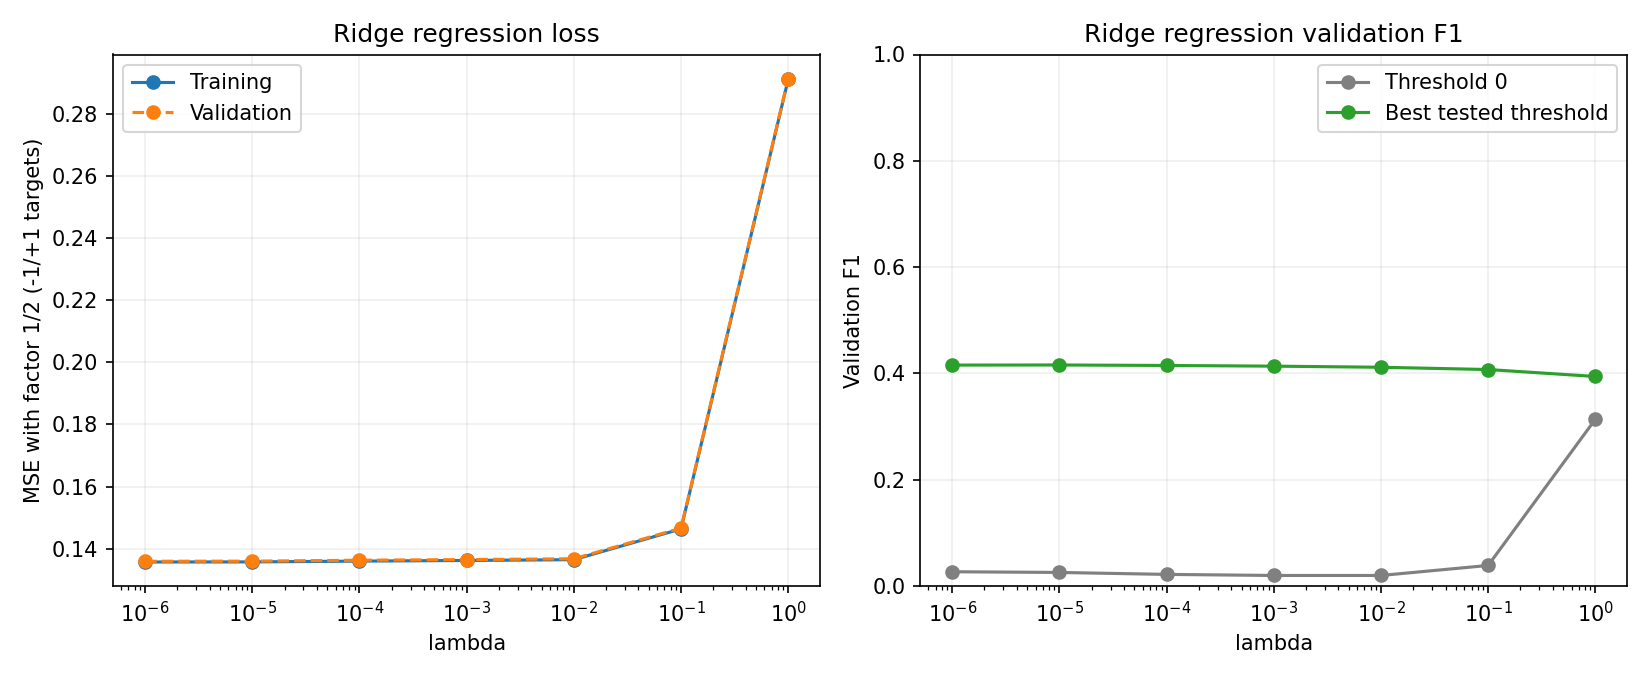
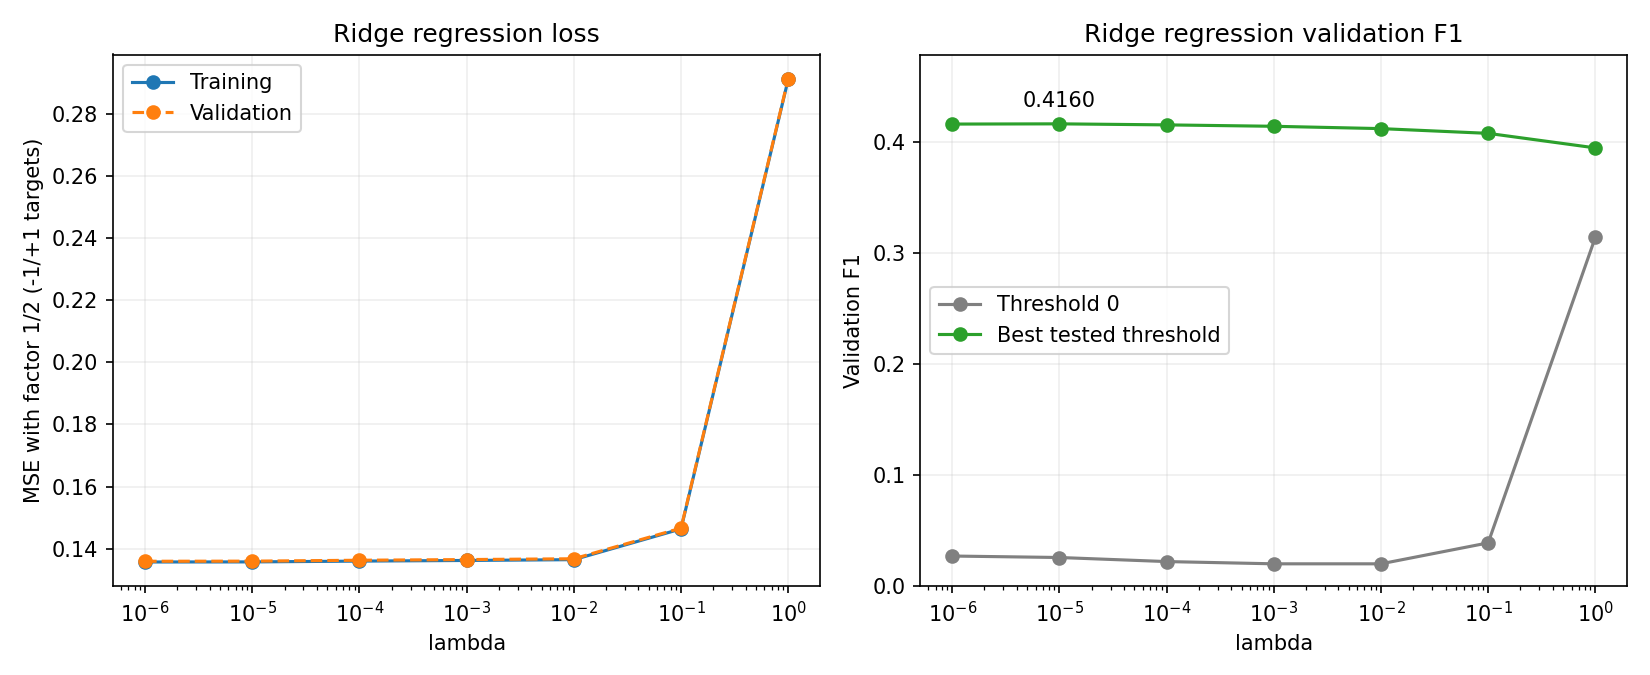
Add one-hot encoding and ridge feature-set comparison

diff --git a/train.py b/train.py
@@ -340,8 +340,14 @@ def save_ridge_results(rows):
         lambdas, [row["f1"] for row in rows],
         marker="o", label="Best tested threshold", color="tab:green",
     )
+    # Label only the selected lambda, so the small differences stay readable.
+    best = max(rows, key=lambda row: row["f1"])
+    f1_ax.annotate(
+        f"{best['f1']:.4f}", (best["lambda"], best["f1"]),
+        textcoords="offset points", xytext=(0, 8), ha="center",
+    )
     f1_ax.set_xscale("log")
-    f1_ax.set_ylim(0, 1)
+    f1_ax.set_ylim(0, max(row["f1"] for row in rows) * 1.15)
     f1_ax.set_xlabel("lambda")
     f1_ax.set_ylabel("Validation F1")
     f1_ax.set_title("Ridge regression validation F1")
@@ -357,7 +363,8 @@ def save_ridge_results(rows):
     print("Saved lambda plot:", plot_path, flush=True)
 
 
-def train_ridge(tx_fit, y_fit, tx_val, y_val, lambdas):
+def tune_ridge(tx_fit, y_fit, tx_val, y_val, lambdas):
+    """Fit ridge for each lambda and tune its score threshold on validation."""
     if len(lambdas) == 0 or min(lambdas) <= 0:
         raise ValueError("Expected at least one positive lambda.")
 
@@ -399,6 +406,13 @@ def train_ridge(tx_fit, y_fit, tx_val, y_val, lambdas):
 
     # Choose the lambda with the highest tuned validation F1.
     best_index = int(np.argmax([row["f1"] for row in rows]))
+    return rows, weights, all_threshold_results, best_index
+
+
+def train_ridge(tx_fit, y_fit, tx_val, y_val, lambdas):
+    rows, weights, all_threshold_results, best_index = tune_ridge(
+        tx_fit, y_fit, tx_val, y_val, lambdas
+    )
     best_lambda = rows[best_index]["lambda"]
     print(
         f"\nSelected lambda: {best_lambda:g} "
@@ -416,14 +430,100 @@ def train_ridge(tx_fit, y_fit, tx_val, y_val, lambdas):
     return weights[best_index], rows[best_index]["training_loss"]
 
 
+def save_feature_comparison(rows):
+    root = Path(__file__).resolve().parent
+    results_dir = root / "results"
+    figures_dir = root / "figures"
+    results_dir.mkdir(exist_ok=True)
+    figures_dir.mkdir(exist_ok=True)
+
+    # One row per feature set, with its best lambda and threshold.
+    csv_path = results_dir / "feature_comparison.csv"
+    with csv_path.open("w", newline="") as file:
+        writer = csv.DictWriter(file, fieldnames=[
+            "feature_set", "columns", "lambda", "training_loss",
+            "validation_loss", "default_f1", "threshold", "tp", "tn", "fp",
+            "fn", "accuracy", "precision", "recall", "f1",
+        ])
+        writer.writeheader()
+        writer.writerows(rows)
+
+    labels = [f"{row['feature_set']}\n({row['columns']} columns)" for row in rows]
+    f1_values = [row["f1"] for row in rows]
+
+    # Bars start at zero; the exact values are written on top of each bar.
+    fig, ax = plt.subplots(figsize=(9, 5))
+    bars = ax.bar(labels, f1_values, color="tab:blue", width=0.6)
+    ax.bar_label(bars, labels=[f"{value:.4f}" for value in f1_values], padding=3)
+    ax.set_ylim(0, max(f1_values) * 1.15)
+    ax.set_ylabel("Validation F1 (best lambda and threshold)")
+    ax.set_title("Ridge regression: effect of feature preprocessing")
+    ax.grid(axis="y", alpha=0.2)
+    ax.set_axisbelow(True)
+    fig.tight_layout()
+    plot_path = figures_dir / "feature_comparison.png"
+    fig.savefig(plot_path, dpi=150)
+    plt.close(fig)
+
+    print("\nFeature comparison (ridge, best lambda and threshold each):")
+    print("Feature set           Columns  Lambda   Threshold  Precision  Recall     F1")
+    for row in rows:
+        print(
+            f"{row['feature_set']:<21} {row['columns']:<8} {row['lambda']:<8g} "
+            f"{row['threshold']:<10.2f} {row['precision']:<10.4f} "
+            f"{row['recall']:<10.4f} {row['f1']:.4f}",
+            flush=True,
+        )
+    print("Saved feature comparison:", csv_path, flush=True)
+    print("Saved feature comparison plot:", plot_path, flush=True)
+
+
+def compare_feature_sets(x, y, feature_names, lambdas):
+    # Same split, model and lambdas; only the preprocessing changes.
+    feature_sets = [
+        # (name, use_feature_rules, use_one_hot)
+        ("original", False, False),
+        ("reviewed", True, False),
+        ("original + one-hot", False, True),
+        ("reviewed + one-hot", True, True),
+    ]
+
+    rows = []
+    for name, use_feature_rules, use_one_hot in feature_sets:
+        print(f"\nPreparing feature set: {name}", flush=True)
+        tx_fit, y_fit, tx_val, y_val = prepare_data(
+            x, y, feature_names=feature_names,
+            use_feature_rules=use_feature_rules, use_one_hot=use_one_hot,
+        )
+        print("training shape (including bias):", tx_fit.shape)
+
+        ridge_rows, _, _, best_index = tune_ridge(
+            tx_fit, y_fit, tx_val, y_val, lambdas
+        )
+        rows.append({
+            "feature_set": name, "columns": tx_fit.shape[1],
+            **ridge_rows[best_index],
+        })
+
+        # Free the large arrays before preparing the next feature set.
+        del tx_fit, tx_val
+
+    save_feature_comparison(rows)
+    return rows
+
+
 def main():
     # Use False here when we are ready for the full labelled dataset.
     sub_sample = False
     # Set False to use the original preprocessing.
     use_feature_rules = True
-    # Choose which model experiments to run.
+    # Set True to one-hot encode columns with at most 10 distinct values.
+    use_one_hot = False
+    # Choose which experiments to run.
+    run_feature_comparison = True
     run_logistic = False
     run_ridge = True
+    ridge_lambdas = [1e-6, 1e-5, 1e-4, 1e-3, 1e-2, 1e-1, 1.0]
 
     # Load the data once.
     print("Loading CSV files...", flush=True)
@@ -434,15 +534,22 @@ def main():
     feature_names = load_feature_names(data_path / "x_train.csv")
     print("sub_sample:", sub_sample)
     print("use_feature_rules:", use_feature_rules)
+    print("use_one_hot:", use_one_hot)
+    print("run_feature_comparison:", run_feature_comparison)
     print("run_logistic:", run_logistic)
     print("run_ridge:", run_ridge)
     print("labelled rows:", len(y_train))
+
+    # Compare feature sets first, before the main arrays use memory.
+    if run_feature_comparison:
+        compare_feature_sets(x_train, y_train, feature_names, ridge_lambdas)
 
     # Prepare the same training and validation data for all models.
     print("\nPreparing training and validation data...", flush=True)
     tx_fit, y_fit, tx_val, y_val = prepare_data(
         x_train, y_train,
         feature_names=feature_names, use_feature_rules=use_feature_rules,
+        use_one_hot=use_one_hot,
     )
     print("training shape (including bias):", tx_fit.shape)
     print("validation shape (including bias):", tx_val.shape)
@@ -455,10 +562,7 @@ def main():
             max_iters=5000, gamma=0.01, threshold=0.5,
         )
     if run_ridge:
-        train_ridge(
-            tx_fit, y_fit, tx_val, y_val,
-            lambdas=[1e-6, 1e-5, 1e-4, 1e-3, 1e-2, 1e-1, 1.0],
-        )
+        train_ridge(tx_fit, y_fit, tx_val, y_val, lambdas=ridge_lambdas)
     print("\nFinished.", flush=True)
 
 

diff --git a/preprocessing.py b/preprocessing.py
@@ -71,6 +71,47 @@ def clean_known_features(x, feature_names):
     return np.column_stack((x_clean, health_missing, days_missing))
 
 
+def fit_one_hot(x, max_categories=10):
+    """Find columns with few distinct training values and store those values."""
+    categories = {}
+    for column in range(x.shape[1]):
+        missing = np.isnan(x[:, column])
+        values = np.unique(x[~missing, column])
+
+        # Small value sets are treated as categories, e.g. codes 1-5, 7 and 9.
+        if 0 < len(values) <= max_categories:
+            categories[column] = (values, bool(np.any(missing)))
+
+    return categories
+
+
+def apply_one_hot(x, categories):
+    """Keep the other columns, then add one 0/1 column per training category."""
+    numeric_columns = [
+        column for column in range(x.shape[1]) if column not in categories
+    ]
+    n_indicators = sum(
+        len(values) + has_missing for values, has_missing in categories.values()
+    )
+
+    # Fill one new array so the large matrix is not copied again.
+    x_encoded = np.empty((len(x), len(numeric_columns) + n_indicators))
+    x_encoded[:, :len(numeric_columns)] = x[:, numeric_columns]
+
+    position = len(numeric_columns)
+    for column, (values, has_missing) in categories.items():
+        for value in values:
+            x_encoded[:, position] = x[:, column] == value
+            position += 1
+        # Missing values get their own column when training had them.
+        # Values never seen in training give zeros in all of this column's indicators.
+        if has_missing:
+            x_encoded[:, position] = np.isnan(x[:, column])
+            position += 1
+
+    return x_encoded
+
+
 def fit_imputer(x):
     # Keep columns with at least one value.
     keep_columns = ~np.all(np.isnan(x), axis=0)
@@ -85,9 +126,15 @@ def fit_imputer(x):
 
 
 def apply_imputer(x, keep_columns, medians):
-    # Drop empty columns and fill missing values.
-    x_clean = x[:, keep_columns].copy()
-    return np.where(np.isnan(x_clean), medians, x_clean)
+    # Drop empty columns; boolean indexing returns a copy, so x is unchanged.
+    x_clean = x[:, keep_columns]
+
+    # Fill each column's missing values with its training median.
+    for column in range(x_clean.shape[1]):
+        values = x_clean[:, column]
+        values[np.isnan(values)] = medians[column]
+
+    return x_clean
 
 
 def fit_scaler(x):
@@ -102,7 +149,10 @@ def fit_scaler(x):
 
 
 def apply_scaler(x, means, stds):
-    return (x - means) / stds
+    # Create one new array and divide it in place to save memory.
+    x_scaled = x - means
+    x_scaled /= stds
+    return x_scaled
 
 
 def add_bias(x):
@@ -113,6 +163,7 @@ def add_bias(x):
 def prepare_data(
     x, y, validation_fraction=0.20, seed=42,
     feature_names=None, use_feature_rules=False,
+    use_one_hot=False, max_categories=10,
 ):
     """Return prepared training and validation arrays."""
     if not 0 < validation_fraction < 1:
@@ -145,23 +196,36 @@ def prepare_data(
         x_fit = clean_known_features(x_fit, feature_names)
         x_val = clean_known_features(x_val, feature_names)
 
+    # Each step below reuses the names x_fit and x_val, so the previous
+    # large arrays can be freed before the next step.
+    if use_one_hot:
+        # Learn the categories from training data, then encode both sets.
+        categories = fit_one_hot(x_fit, max_categories)
+        print(
+            f"  One-hot encoding {len(categories)} columns "
+            f"with at most {max_categories} values...",
+            flush=True,
+        )
+        x_fit = apply_one_hot(x_fit, categories)
+        x_val = apply_one_hot(x_val, categories)
+
     # Learn medians from training data, then clean both sets.
     print("  Filling missing values...", flush=True)
     keep_columns, medians = fit_imputer(x_fit)
-    x_fit_clean = apply_imputer(x_fit, keep_columns, medians)
-    x_val_clean = apply_imputer(x_val, keep_columns, medians)
+    x_fit = apply_imputer(x_fit, keep_columns, medians)
+    x_val = apply_imputer(x_val, keep_columns, medians)
 
     # Learn scaling from training data, then scale both sets.
     print("  Standardizing features...", flush=True)
-    means, stds = fit_scaler(x_fit_clean)
-    x_fit_scaled = apply_scaler(x_fit_clean, means, stds)
-    x_val_scaled = apply_scaler(x_val_clean, means, stds)
-    assert np.isfinite(x_fit_scaled).all()
-    assert np.isfinite(x_val_scaled).all()
+    means, stds = fit_scaler(x_fit)
+    x_fit = apply_scaler(x_fit, means, stds)
+    x_val = apply_scaler(x_val, means, stds)
+    assert np.isfinite(x_fit).all()
+    assert np.isfinite(x_val).all()
 
     # Add the intercept after scaling.
     print("  Adding bias...", flush=True)
-    tx_fit = add_bias(x_fit_scaled)
-    tx_val = add_bias(x_val_scaled)
+    tx_fit = add_bias(x_fit)
+    tx_val = add_bias(x_val)
 
     return tx_fit, y_fit, tx_val, y_val

diff --git a/feature_notes.md b/feature_notes.md
@@ -4,7 +4,9 @@ Checked against the [CDC codebook](https://www.cdc.gov/brfss/annual_data/2015/pd
 and our training data.
 
 - `SEQNO` and `_PSU` are identical survey IDs. Try removing both.
-- `_STATE`, `MARITAL` and `EMPLOY1` are categories. Try one-hot encoding later.
+- `_STATE`, `MARITAL` and `EMPLOY1` are categories. `use_one_hot=True` encodes
+  `MARITAL` and `EMPLOY1` (at most 10 values); `_STATE` has 53 values and
+  stays numeric.
 - `SEX`: 1 = male, 2 = female. Can be encoded as 0/1.
 - `GENHLTH`: 1-5 are ordered health ratings; 7 and 9 mean unavailable.
 - `PHYSHLTH`: 88 means zero days; 77 and 99 mean unavailable.
@@ -14,3 +16,8 @@ and our training data.
 
 In `train.py`, `use_feature_rules=True` removes the IDs, fixes the health codes
 and adds two missing indicators. Set it to `False` for the original preprocessing.
+
+From the automatic summary of the training rows: 221 of the 321 features have at
+most 10 distinct values. One-hot encoding gives each code (including 7/9-style
+"don't know" or "refused" codes) and missing values their own column, without
+reviewing every feature by hand.
